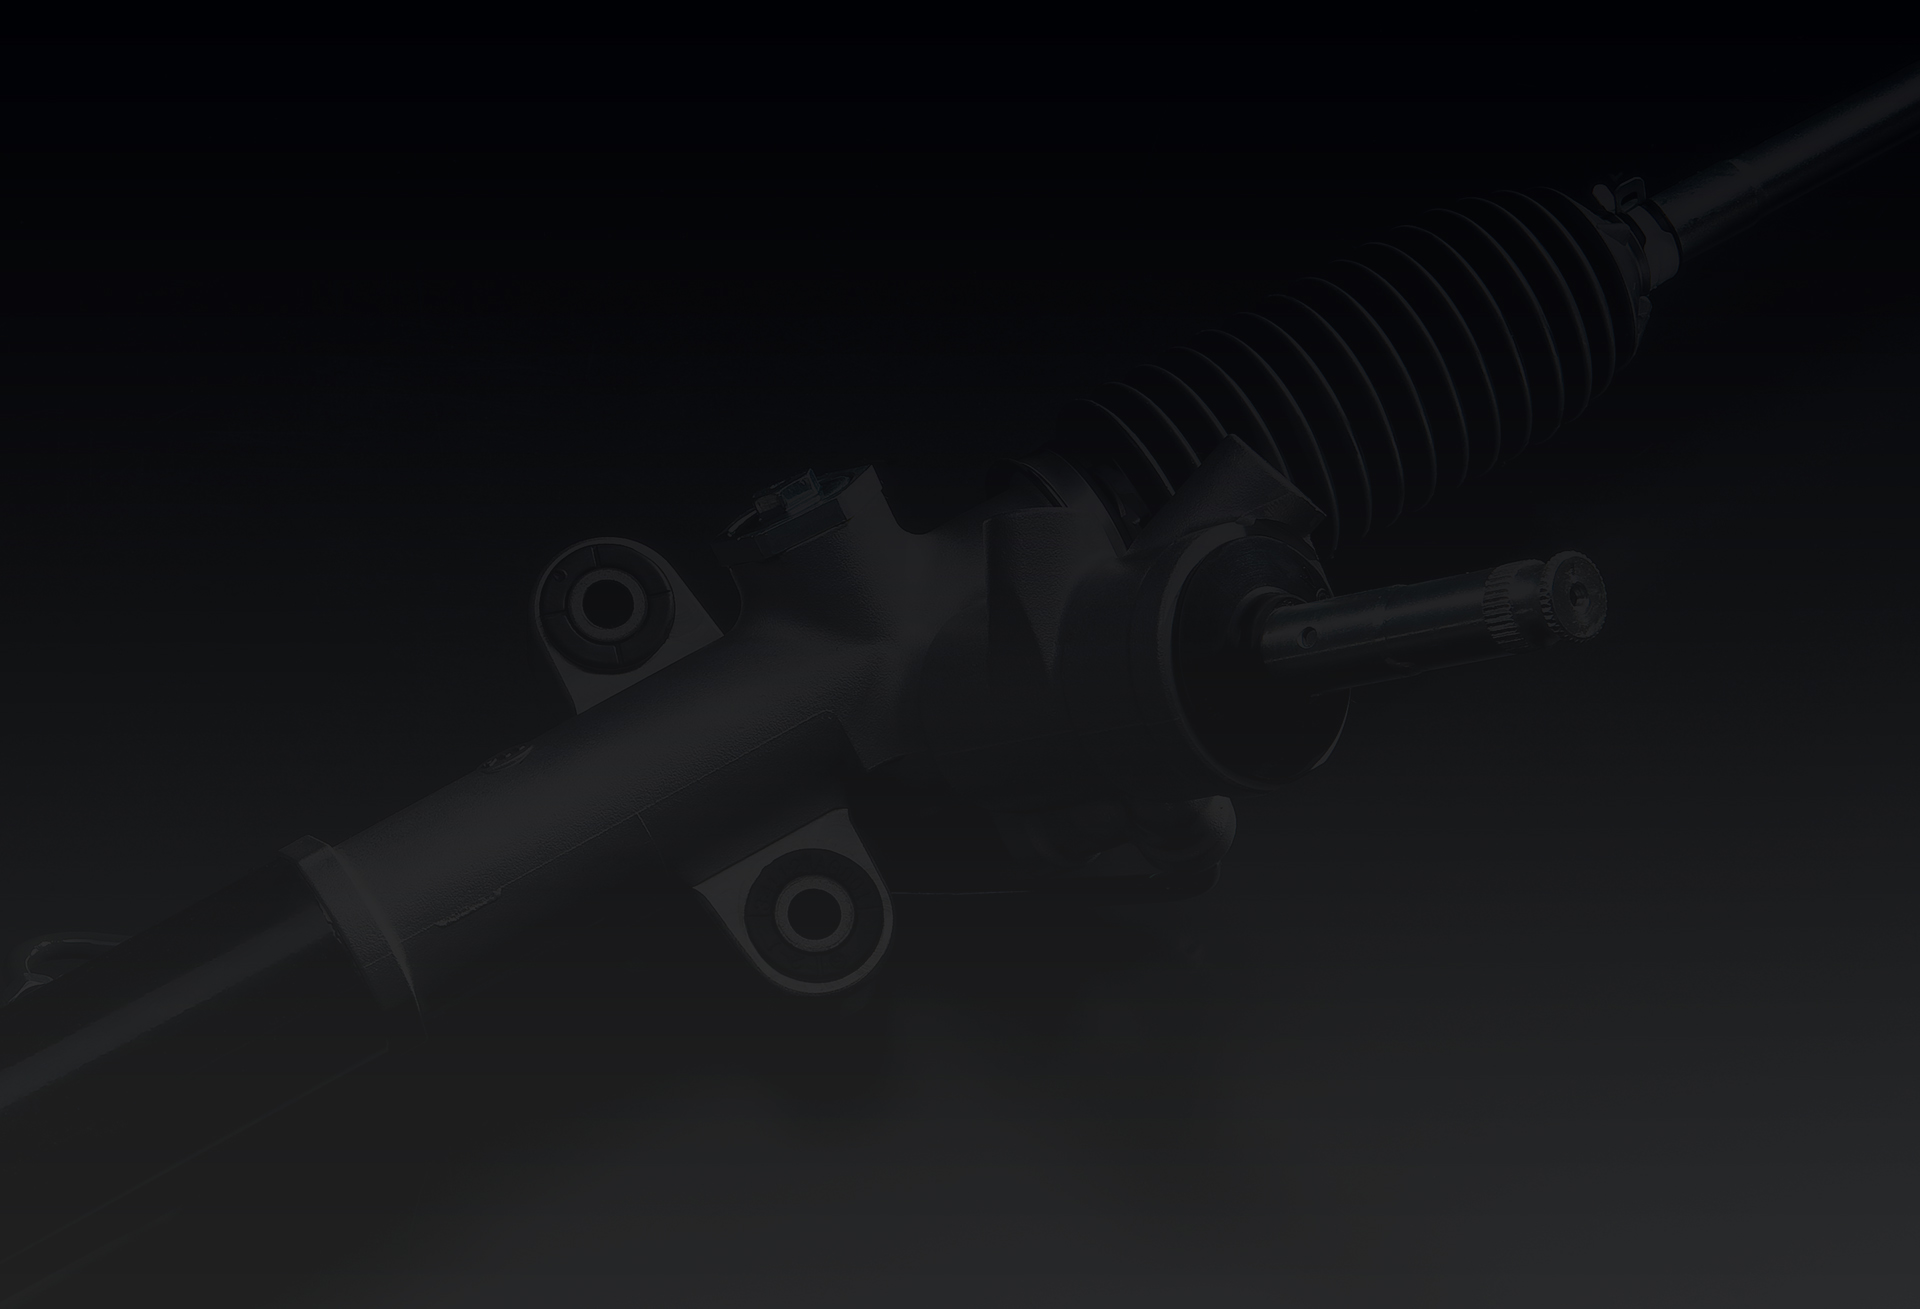
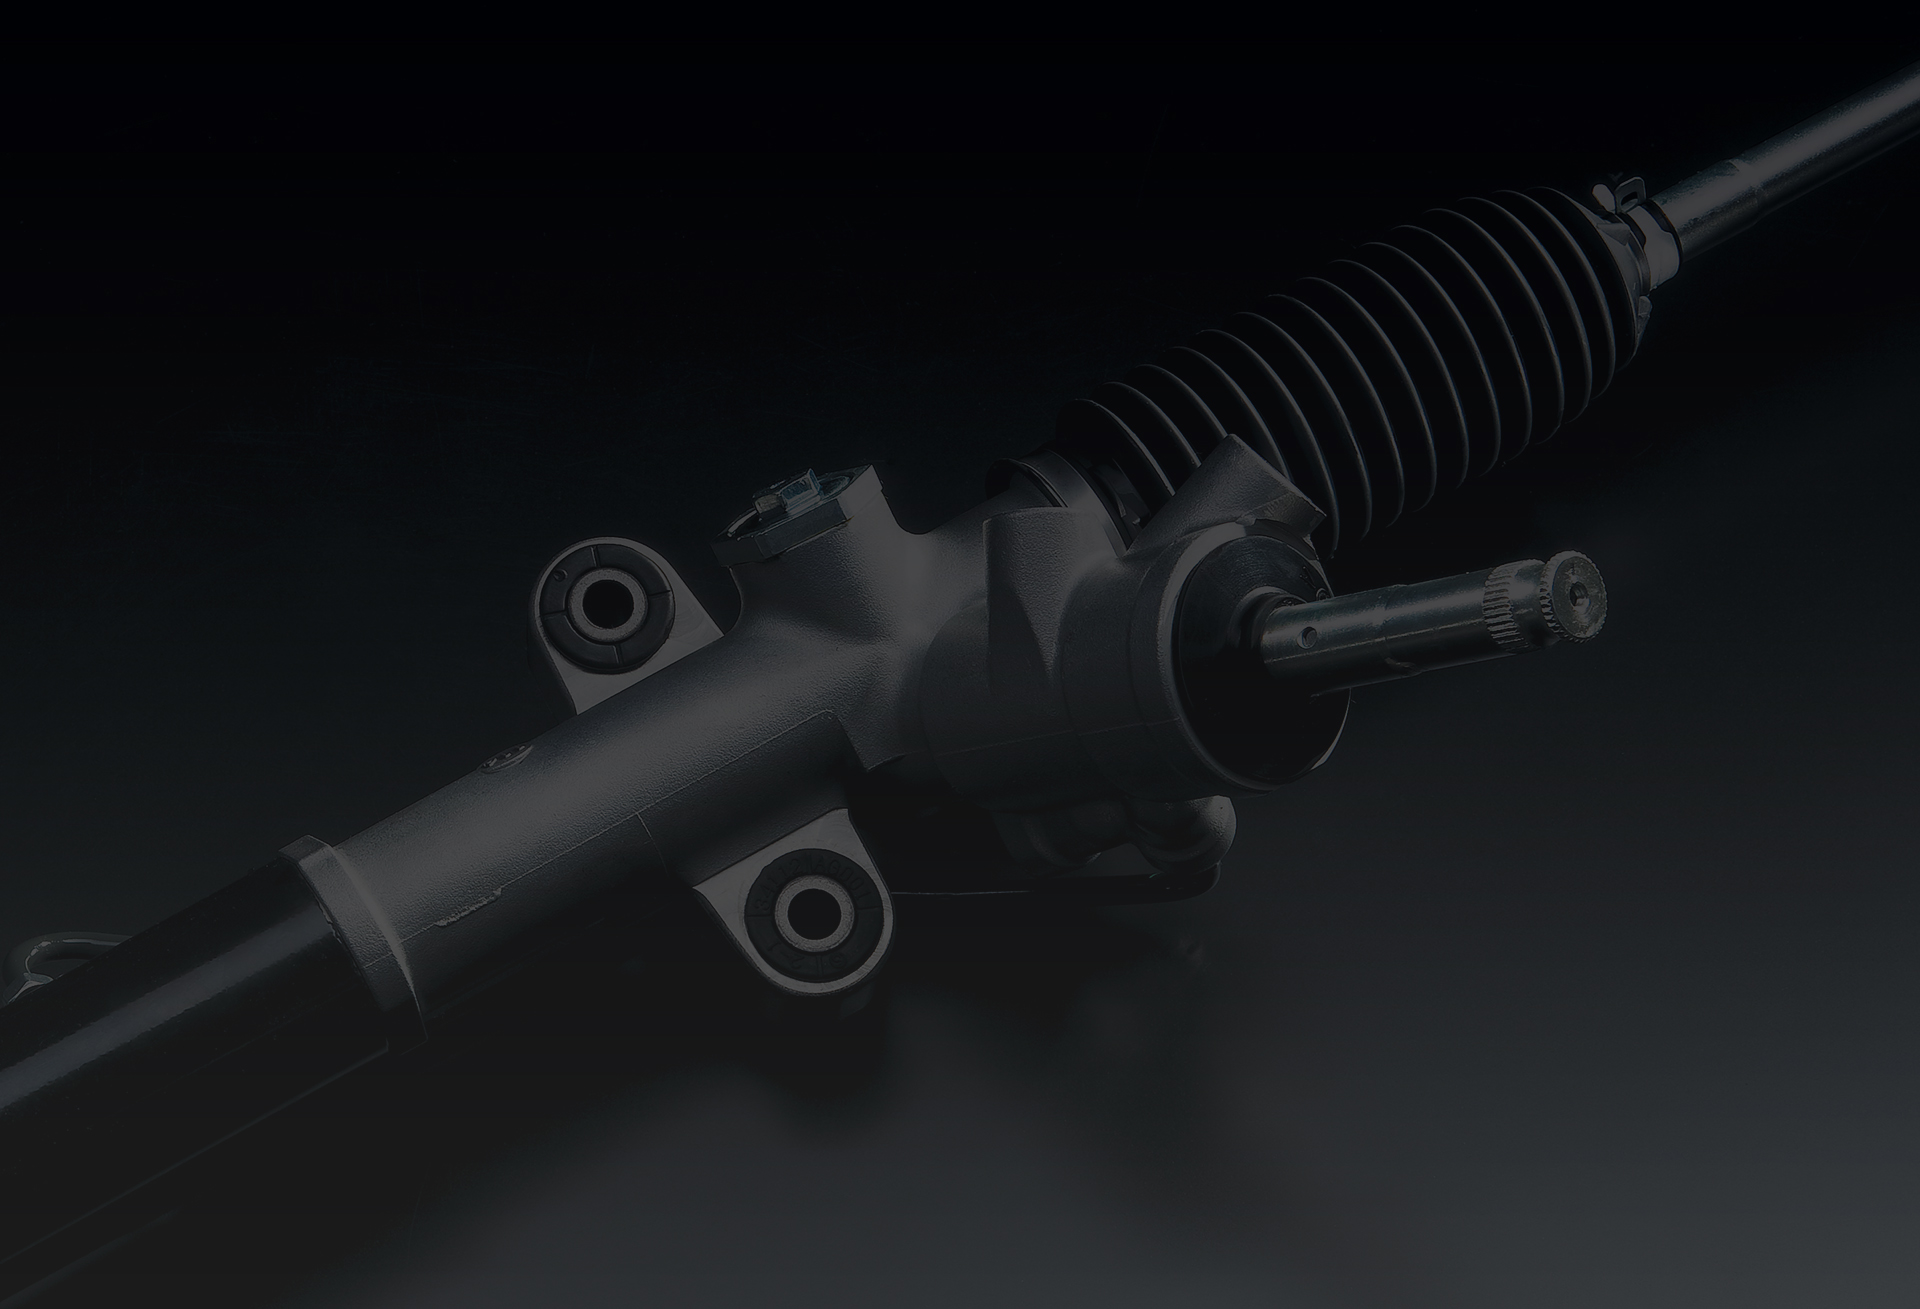
change background

diff --git a/styles/components/promo/_promo.scss b/styles/components/promo/_promo.scss
@@ -1,7 +1,7 @@
 .promo {
     margin: 0 auto;
     padding: 180px 30px 0;
-    background: url('../images/promo/top-bg1.jpg') center no-repeat;
+    background: url('../images/services/bg-services.jpg') center no-repeat;
     background-size: cover;
     .center_title {
         h1 {

diff --git a/styles/main.css b/styles/main.css
@@ -704,7 +704,7 @@ img {
 .promo {
   margin: 0 auto;
   padding: 180px 30px 0;
-  background: url("../images/promo/top-bg1.jpg") center no-repeat;
+  background: url("../images/services/bg-services.jpg") center no-repeat;
   background-size: cover;
 }
 
